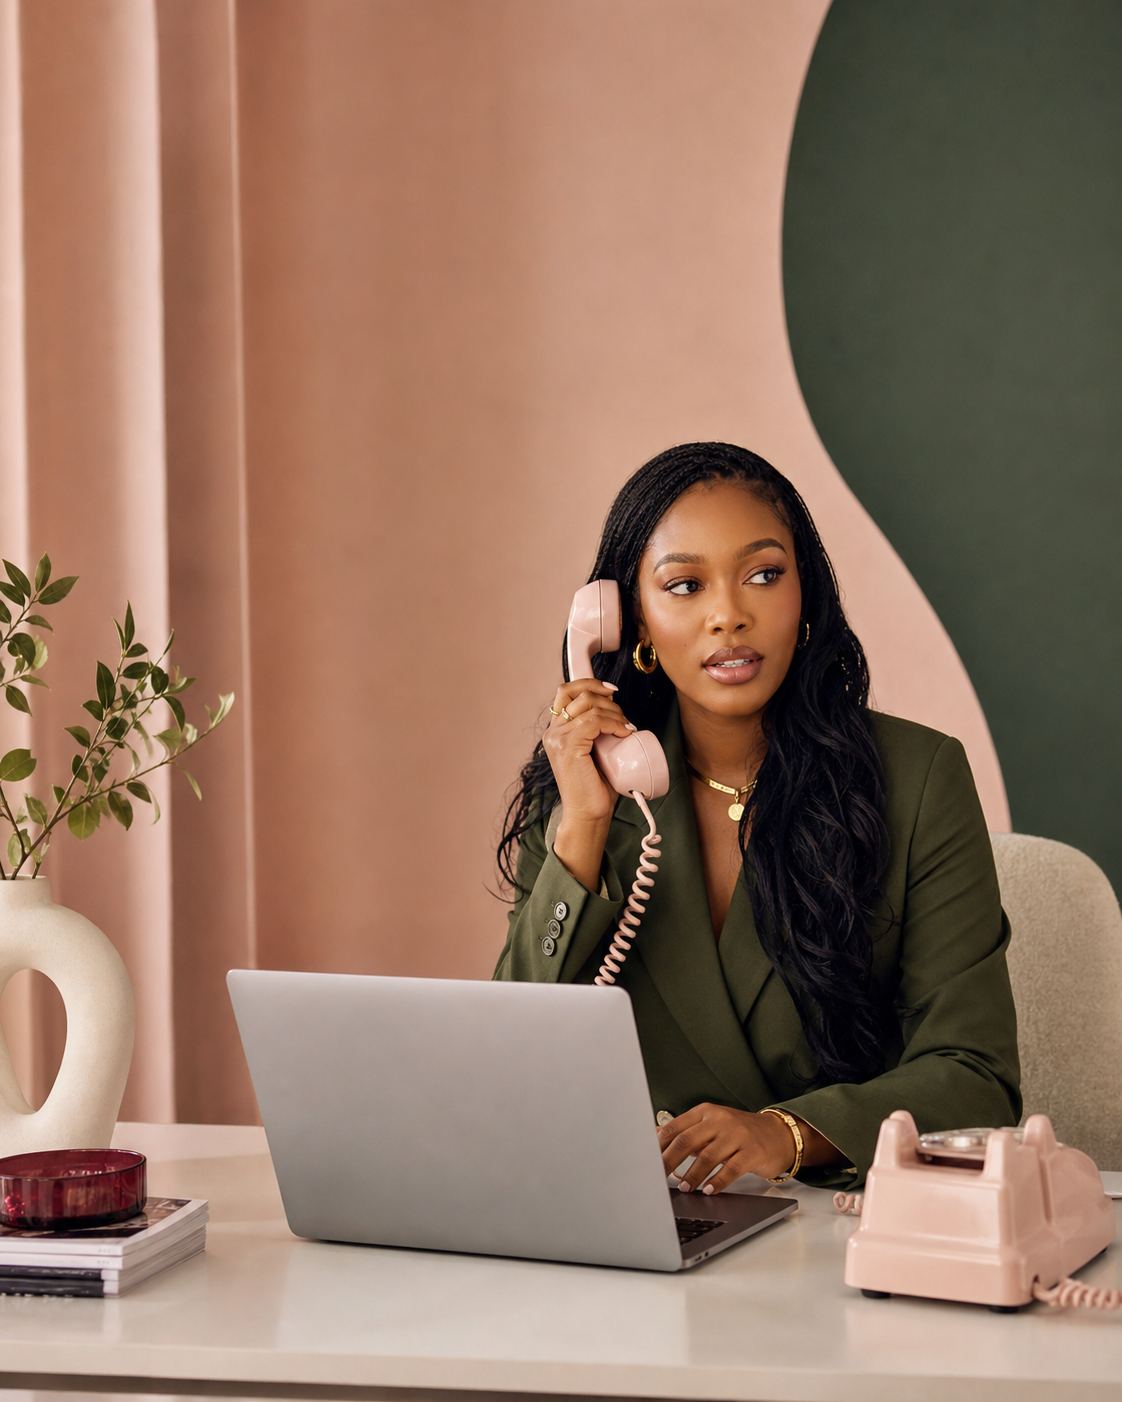
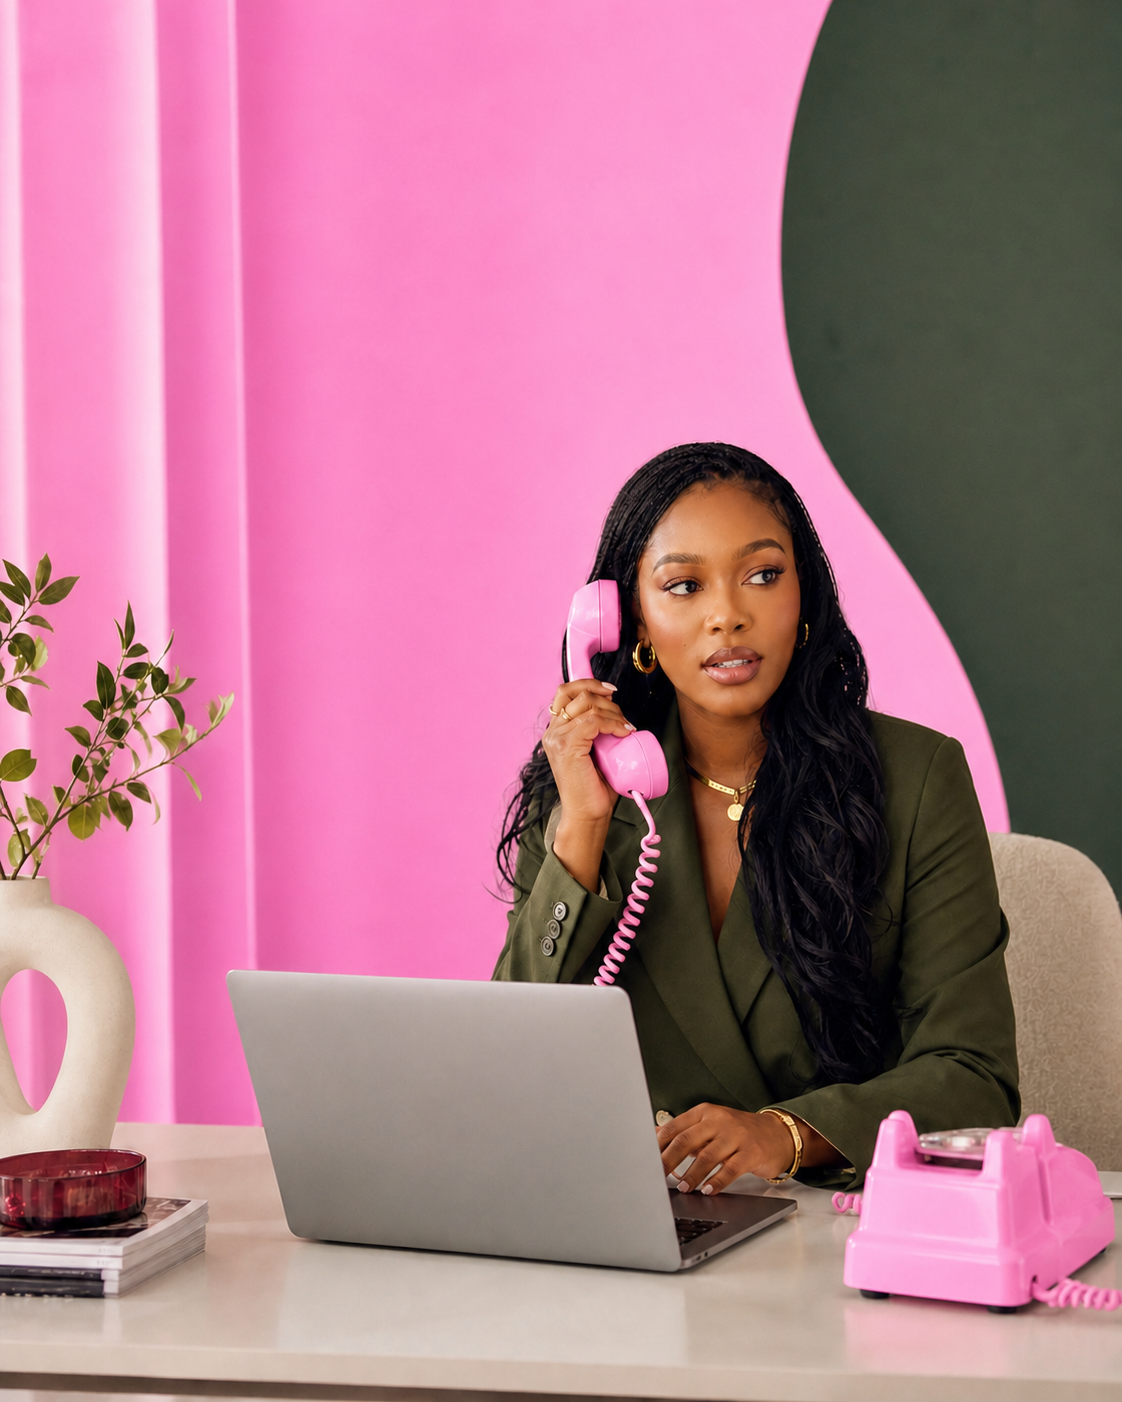
Brighten login palette with fluorescent pink

diff --git a/styles/globals.css b/styles/globals.css
@@ -18,8 +18,8 @@ body {
 .signin-shell {
   --ink: #17382d;
   --forest: #1f4a3b;
-  --pink: #f2a9b8;
-  --blush: #f8dce2;
+  --pink: #ff8de1;
+  --blush: #ffd9f6;
   --cream: #fbf7ef;
   min-height: 100vh;
   display: grid;
@@ -37,7 +37,7 @@ body {
   flex-direction: column;
   padding: clamp(1.5rem, 3.5vw, 3.5rem) clamp(1.5rem, 5.5vw, 5.5rem) 2rem;
   background:
-    radial-gradient(circle at 4% 92%, rgba(242, 169, 184, .17) 0 9rem, transparent 9.1rem),
+    radial-gradient(circle at 4% 92%, rgba(255, 141, 225, .16) 0 9rem, transparent 9.1rem),
     var(--cream);
 }
 
@@ -103,7 +103,7 @@ body {
   height: .5rem;
   border-radius: 50%;
   background: var(--pink);
-  box-shadow: 0 0 0 4px rgba(242, 169, 184, .2);
+  box-shadow: 0 0 0 4px rgba(255, 141, 225, .2);
 }
 
 .signin-content h1 {
@@ -189,7 +189,7 @@ body {
 }
 
 .signin-form button:focus-visible {
-  outline: 3px solid rgba(242, 169, 184, .65);
+  outline: 3px solid rgba(255, 141, 225, .65);
   outline-offset: 3px;
 }
 
